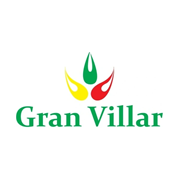
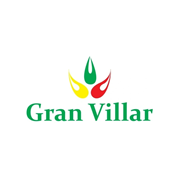
PWA: icones maskable sem corte, nome <cliente>_<pedido>.pdf e Compartilhar no admin

Changed region(s): [[0.3333, 0.2778, 0.9167, 0.7222], [0.0833, 0.5556, 0.4722, 0.7222]]

diff --git a/frontend/src/pages/admin/AdminPedidosPage.tsx b/frontend/src/pages/admin/AdminPedidosPage.tsx
@@ -1,6 +1,7 @@
 import { useEffect, useState } from 'react';
 import { Link } from 'react-router-dom';
 import { AppLayout } from '../../components/AppLayout';
+import { useDialogo } from '../../context/DialogoContext';
 import * as pedidosApi from '../../lib/pedidosApi';
 import type { PedidoAdmin } from '../../lib/pedidosApi';
 import * as clientesApi from '../../lib/clientesApi';
@@ -11,12 +12,33 @@ import { brl, dataBR, dataHoraBR } from '../../lib/formatar';
 
 
 export function AdminPedidosPage() {
+  const dialogo = useDialogo();
   const [limite, setLimite] = useState<Limite>(12);
   const [clienteId, setClienteId] = useState<string>('');
   const [clientes, setClientes] = useState<Cliente[]>([]);
   const [pedidos, setPedidos] = useState<PedidoAdmin[]>([]);
   const [carregando, setCarregando] = useState(true);
+  const [compartilhando, setCompartilhando] = useState<string | null>(null);
   const [historicoAberto, setHistoricoAberto] = useState<Set<string>>(new Set());
+
+  async function compartilharPdf(p: PedidoAdmin) {
+    setCompartilhando(p.pedidoId);
+    try {
+      await pedidosApi.compartilharPdfPedido({
+        pedidoId: p.pedidoId,
+        numeroPedido: p.numeroPedido,
+        cliente: p.cliente,
+      });
+    } catch {
+      await dialogo.avisar({
+        titulo: 'Não foi possível compartilhar o PDF',
+        tom: 'erro',
+        mensagem: 'Verifique o sinal e tente novamente.',
+      });
+    } finally {
+      setCompartilhando(null);
+    }
+  }
 
   function toggleHistorico(pedidoId: string) {
     setHistoricoAberto((s) => {
@@ -132,11 +154,19 @@ export function AdminPedidosPage() {
               </div>
 
               <div className="mt-3 flex gap-2">
+                <button
+                  type="button"
+                  onClick={() => compartilharPdf(p)}
+                  disabled={compartilhando === p.pedidoId}
+                  className="flex-1 rounded-lg bg-brand-600 py-2 text-center text-sm font-medium text-white hover:bg-brand-500 disabled:cursor-not-allowed disabled:bg-slate-300"
+                >
+                  {compartilhando === p.pedidoId ? 'Abrindo…' : 'Compartilhar'}
+                </button>
                 <a
                   href={pedidosApi.pdfHref(p.pedidoId)}
                   target="_blank"
                   rel="noopener"
-                  className="flex-1 rounded-lg bg-brand-600 py-2 text-center text-sm font-medium text-white hover:bg-brand-500"
+                  className="flex-1 rounded-lg bg-slate-100 py-2 text-center text-sm font-medium text-slate-700 hover:bg-slate-200"
                 >
                   Baixar PDF
                 </a>

diff --git a/frontend/src/pages/admin/AdminPedidoDetalhePage.tsx b/frontend/src/pages/admin/AdminPedidoDetalhePage.tsx
@@ -38,6 +38,7 @@ export function AdminPedidoDetalhePage() {
   const [carregando, setCarregando] = useState(true);
   const [historicoVisivel, setHistoricoVisivel] = useState(false);
   const [enviando, setEnviando] = useState(false);
+  const [compartilhando, setCompartilhando] = useState(false);
   // Pilha de estados da revisão: [0] = como o vendedor deixou.
   const [passos, setPassos] = useState<Estado[]>([]);
   const [posicao, setPosicao] = useState(0);
@@ -140,6 +141,26 @@ export function AdminPedidoDetalhePage() {
 
   function erroDe(e: unknown, padrao: string) {
     return axios.isAxiosError(e) && e.response?.data?.mensagem ? e.response.data.mensagem : padrao;
+  }
+
+  async function compartilharPdf() {
+    if (!pedido) return;
+    setCompartilhando(true);
+    try {
+      await pedidosApi.compartilharPdfPedido({
+        pedidoId: pedido.id,
+        numeroPedido: pedido.numeroPedido,
+        cliente: pedido.cliente,
+      });
+    } catch {
+      await dialogo.avisar({
+        titulo: 'Não foi possível compartilhar o PDF',
+        tom: 'erro',
+        mensagem: 'Verifique o sinal e tente novamente.',
+      });
+    } finally {
+      setCompartilhando(false);
+    }
   }
 
   async function aprovar() {
@@ -367,11 +388,19 @@ export function AdminPedidoDetalhePage() {
         </div>
 
         <div className="mt-4 flex gap-2">
+          <button
+            type="button"
+            onClick={compartilharPdf}
+            disabled={compartilhando}
+            className="flex-1 rounded-lg bg-brand-600 py-2 text-center text-sm font-medium text-white hover:bg-brand-500 disabled:cursor-not-allowed disabled:bg-slate-300"
+          >
+            {compartilhando ? 'Abrindo…' : 'Compartilhar'}
+          </button>
           <a
             href={pedidosApi.pdfHref(pedido.id)}
             target="_blank"
             rel="noopener"
-            className="flex-1 rounded-lg bg-brand-600 py-2 text-center text-sm font-medium text-white hover:bg-brand-500"
+            className="flex-1 rounded-lg bg-slate-100 py-2 text-center text-sm font-medium text-slate-700 hover:bg-slate-200"
           >
             Baixar PDF
           </a>

diff --git a/frontend/src/lib/pedidosApi.ts b/frontend/src/lib/pedidosApi.ts
@@ -141,6 +141,58 @@ export async function baixarPdfBlob(pedidoId: string): Promise<Blob> {
   return res.data;
 }
 
+/** Nome padrão do arquivo PDF: <codigoCliente>_<codigoPedido>.pdf */
+export function nomeArquivoPdf(
+  codigoCliente: string,
+  numeroPedido: string | null,
+  pedidoId: string,
+): string {
+  const codCliente = codigoCliente.trim().replace(/[^a-zA-Z0-9_-]/g, '_');
+  const codPedido = (numeroPedido ?? pedidoId.slice(0, 8)).trim().replace(/[^a-zA-Z0-9_-]/g, '_');
+  return `${codCliente}_${codPedido}.pdf`;
+}
+
+/**
+ * Busca o PDF em memória e abre a folha nativa de compartilhamento do celular
+ * (ou baixa o arquivo como fallback em navegadores sem suporte a compartilhar arquivos).
+ */
+export async function compartilharPdfPedido(dados: {
+  pedidoId: string;
+  numeroPedido: string | null;
+  cliente: { codigo: string; nome: string };
+}): Promise<void> {
+  const blob = await baixarPdfBlob(dados.pedidoId);
+  const nomeArquivo = nomeArquivoPdf(dados.cliente.codigo, dados.numeroPedido, dados.pedidoId);
+  const arquivo = new File([blob], nomeArquivo, { type: 'application/pdf' });
+  const titulo = dados.numeroPedido
+    ? `Pedido ${dados.numeroPedido} — ${dados.cliente.nome}`
+    : `Pedido — ${dados.cliente.nome}`;
+
+  if (typeof navigator.canShare === 'function' && navigator.canShare({ files: [arquivo] })) {
+    try {
+      await navigator.share({
+        files: [arquivo],
+        title: titulo,
+      });
+    } catch (e) {
+      if (e && typeof e === 'object' && 'name' in e && (e as { name?: string }).name === 'AbortError') {
+        return;
+      }
+      throw e;
+    }
+    return;
+  }
+
+  const url = URL.createObjectURL(blob);
+  const a = document.createElement('a');
+  a.href = url;
+  a.download = nomeArquivo;
+  document.body.appendChild(a);
+  a.click();
+  a.remove();
+  window.setTimeout(() => URL.revokeObjectURL(url), 60000);
+}
+
 // ---- Alterações do comercial ----
 
 /** O que mudou num item quando o comercial confirmou com alterações. */

diff --git a/frontend/src/pages/vendedor/MeusPedidosPage.tsx b/frontend/src/pages/vendedor/MeusPedidosPage.tsx
@@ -195,37 +195,12 @@ export function MeusPedidosPage() {
   async function compartilharPdf(p: MeuPedido) {
     setCompartilhando(p.pedidoId);
     try {
-      const blob = await pedidosApi.baixarPdfBlob(p.pedidoId);
-      const nomeArquivo = p.numeroPedido
-        ? `pedido_${p.numeroPedido}.pdf`
-        : `proposta_${p.pedidoId.slice(0, 8)}.pdf`;
-      const arquivo = new File([blob], nomeArquivo, { type: 'application/pdf' });
-      const titulo = p.numeroPedido
-        ? `Pedido ${p.numeroPedido} — ${p.cliente.nome}`
-        : `Pedido — ${p.cliente.nome}`;
-
-      if (typeof navigator.canShare === 'function' && navigator.canShare({ files: [arquivo] })) {
-        await navigator.share({
-          files: [arquivo],
-          title: titulo,
-        });
-        return;
-      }
-
-      // Fallback (ex.: navegador de computador sem suporte a compartilhar arquivos): baixa o PDF.
-      const url = URL.createObjectURL(blob);
-      const a = document.createElement('a');
-      a.href = url;
-      a.download = nomeArquivo;
-      document.body.appendChild(a);
-      a.click();
-      a.remove();
-      window.setTimeout(() => URL.revokeObjectURL(url), 60000);
-    } catch (e) {
-      // Se o vendedor apenas fechou/cancelou a gaveta de compartilhamento do celular, não é erro.
-      if (e && typeof e === 'object' && 'name' in e && (e as { name?: string }).name === 'AbortError') {
-        return;
-      }
+      await pedidosApi.compartilharPdfPedido({
+        pedidoId: p.pedidoId,
+        numeroPedido: p.numeroPedido,
+        cliente: p.cliente,
+      });
+    } catch {
       await dialogo.avisar({
         titulo: 'Não foi possível compartilhar o PDF',
         tom: 'erro',

diff --git a/backend/src/modules/pedidos/pedidos.controller.ts b/backend/src/modules/pedidos/pedidos.controller.ts
@@ -554,9 +554,9 @@ export async function baixarTxt(req: Request, res: Response): Promise<void> {
 export async function baixarPdf(req: Request, res: Response): Promise<void> {
   const pedido = await carregarExportavel(req, res);
   if (!pedido) return;
-  const nome = pedido.numeroPedido
-    ? `pedido_${pedido.numeroPedido}.pdf`
-    : `proposta_${pedido.id.slice(0, 8)}.pdf`;
+  const codCliente = pedido.cliente.codigo.trim().replace(/[^a-zA-Z0-9_-]/g, '_');
+  const codPedido = (pedido.numeroPedido ?? pedido.id.slice(0, 8)).trim().replace(/[^a-zA-Z0-9_-]/g, '_');
+  const nome = `${codCliente}_${codPedido}.pdf`;
   res.setHeader('Content-Type', 'application/pdf');
   res.setHeader('Content-Disposition', `attachment; filename="${nome}"`);
   // bufferPages: necessário para voltar em cada página no fim e escrever o

diff --git a/frontend/index.html b/frontend/index.html
@@ -7,8 +7,8 @@
     <meta name="apple-mobile-web-app-capable" content="yes" />
     <meta name="apple-mobile-web-app-status-bar-style" content="default" />
     <meta name="apple-mobile-web-app-title" content="Gran Villar" />
-    <link rel="icon" type="image/png" sizes="192x192" href="/icon-192.png" />
-    <link rel="apple-touch-icon" sizes="180x180" href="/apple-touch-icon.png" />
+    <link rel="icon" type="image/png" sizes="192x192" href="/icon-192.png?v=2" />
+    <link rel="apple-touch-icon" sizes="180x180" href="/apple-touch-icon.png?v=2" />
     <link rel="manifest" href="/manifest.json" />
     <title>Gran Villar — Pedidos</title>
     <script src="/pre-sessao.js"></script>
